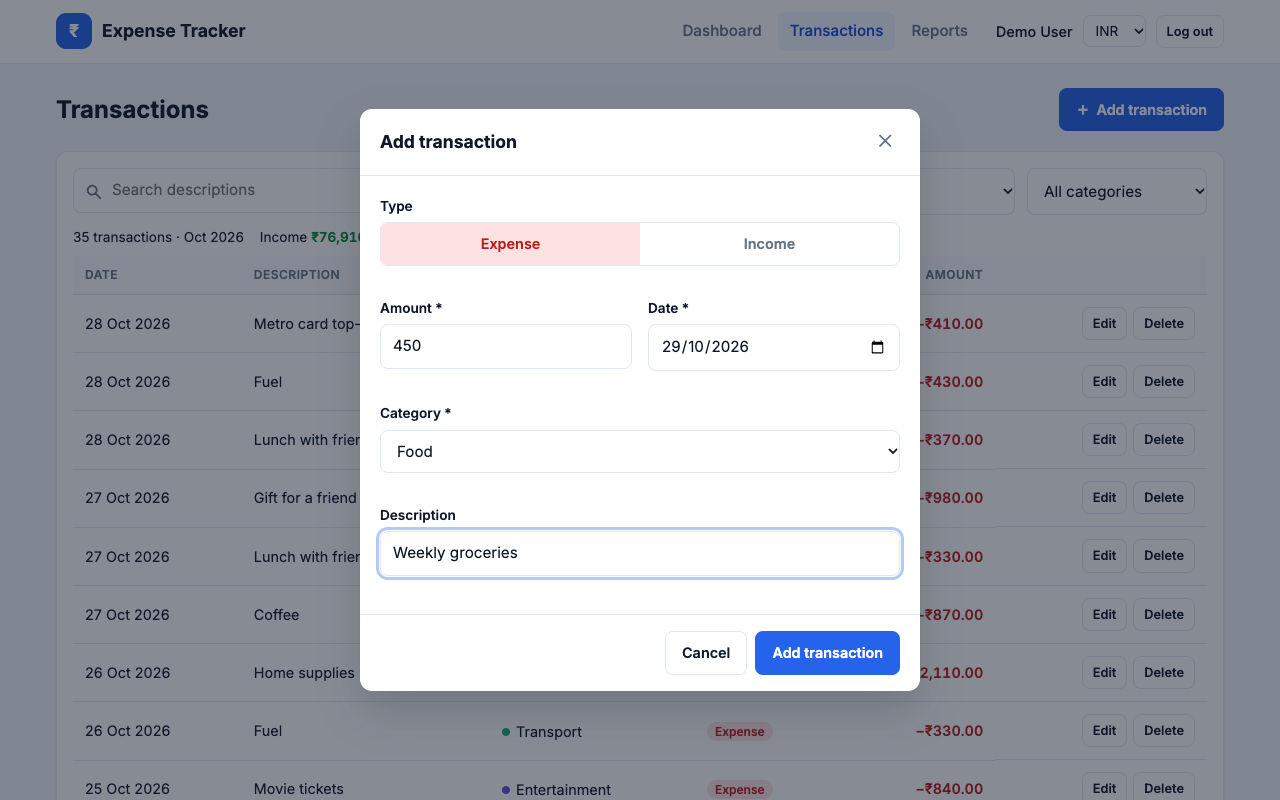
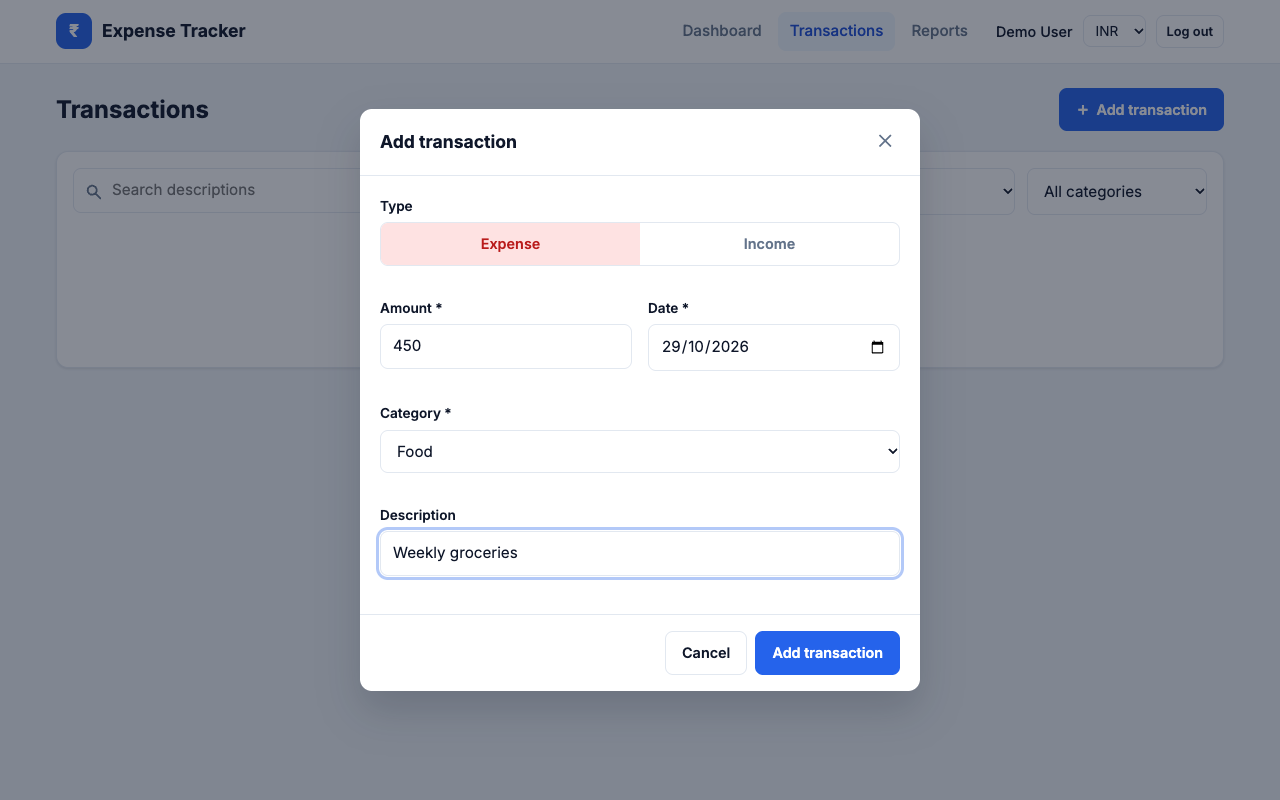
Add screenshots and final README

diff --git a/README.md b/README.md
@@ -287,12 +287,12 @@ The UI was tested end-to-end in Chrome at 1280px and 375px: register, login, log
 
 ## 📸 Screenshots
 
-Screenshots from the live site (desktop 1280px, mobile 375px).
+Screenshots taken from the live site (desktop 1280px, mobile 375px).
 
 <table>
-<tr><td align="center" valign="top"><b>Login / register</b><br><img src="screenshots/login.png" alt="Login / register" width="100%"></td><td align="center" valign="top"><b>Dashboard</b><br><img src="screenshots/dashboard.png" alt="Dashboard" width="100%"></td></tr>
-<tr><td align="center" valign="top"><b>Transactions</b><br><img src="screenshots/transactions.png" alt="Transactions" width="100%"></td><td align="center" valign="top"><b>Add / edit transaction</b><br><img src="screenshots/form.png" alt="Add / edit transaction" width="100%"></td></tr>
-<tr><td align="center" valign="top"><b>Reports</b><br><img src="screenshots/reports.png" alt="Reports" width="100%"></td><td align="center" valign="top"><b>Mobile</b><br><img src="screenshots/mobile.png" alt="Mobile" width="260"></td></tr>
+<tr><td align="center" valign="top" width="50%"><b>Login</b><br><img src="screenshots/login.png" alt="Login" width="100%"></td><td align="center" valign="top" width="50%"><b>Dashboard with charts</b><br><img src="screenshots/dashboard.png" alt="Dashboard with charts" width="100%"></td></tr>
+<tr><td align="center" valign="top" width="50%"><b>Transactions with filters</b><br><img src="screenshots/transactions.png" alt="Transactions with filters" width="100%"></td><td align="center" valign="top" width="50%"><b>Add / edit transaction</b><br><img src="screenshots/form.png" alt="Add / edit transaction" width="100%"></td></tr>
+<tr><td align="center" valign="top" width="50%"><b>Reports</b><br><img src="screenshots/reports.png" alt="Reports" width="100%"></td><td align="center" valign="top" width="50%"><b>Mobile (375px)</b><br><img src="screenshots/mobile.png" alt="Mobile (375px)" width="260"></td></tr>
 </table>
 
 ---
